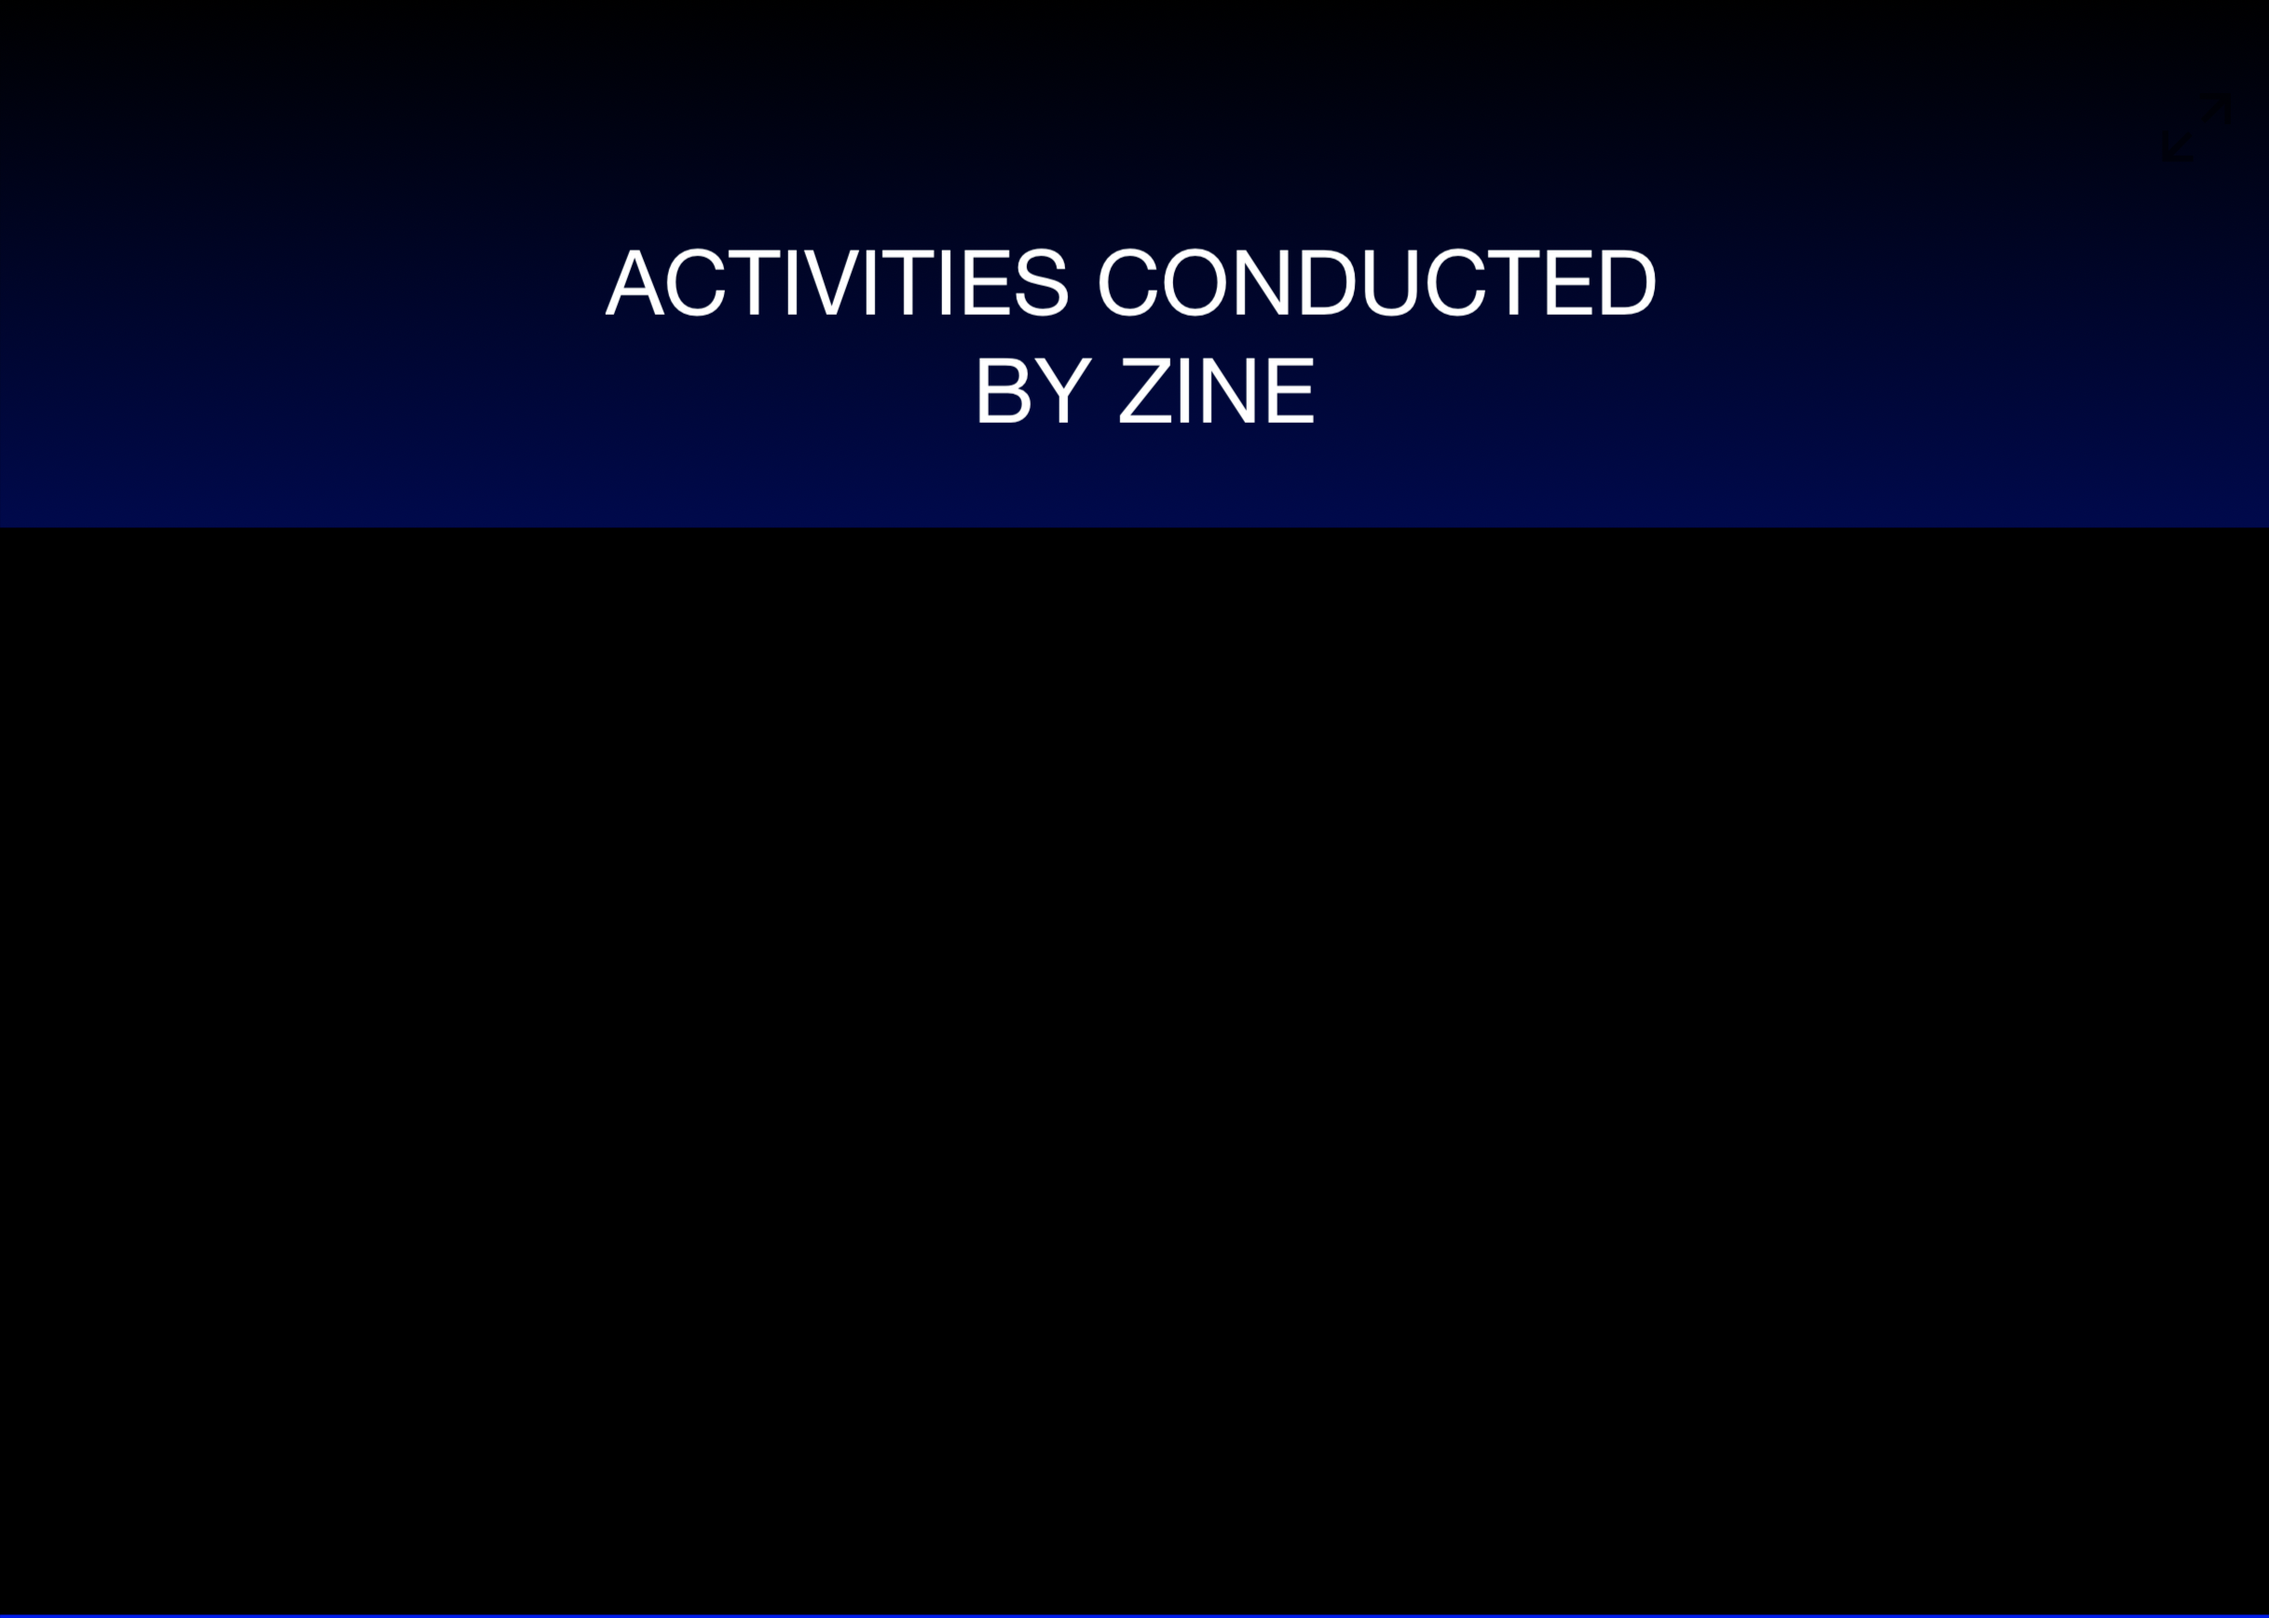
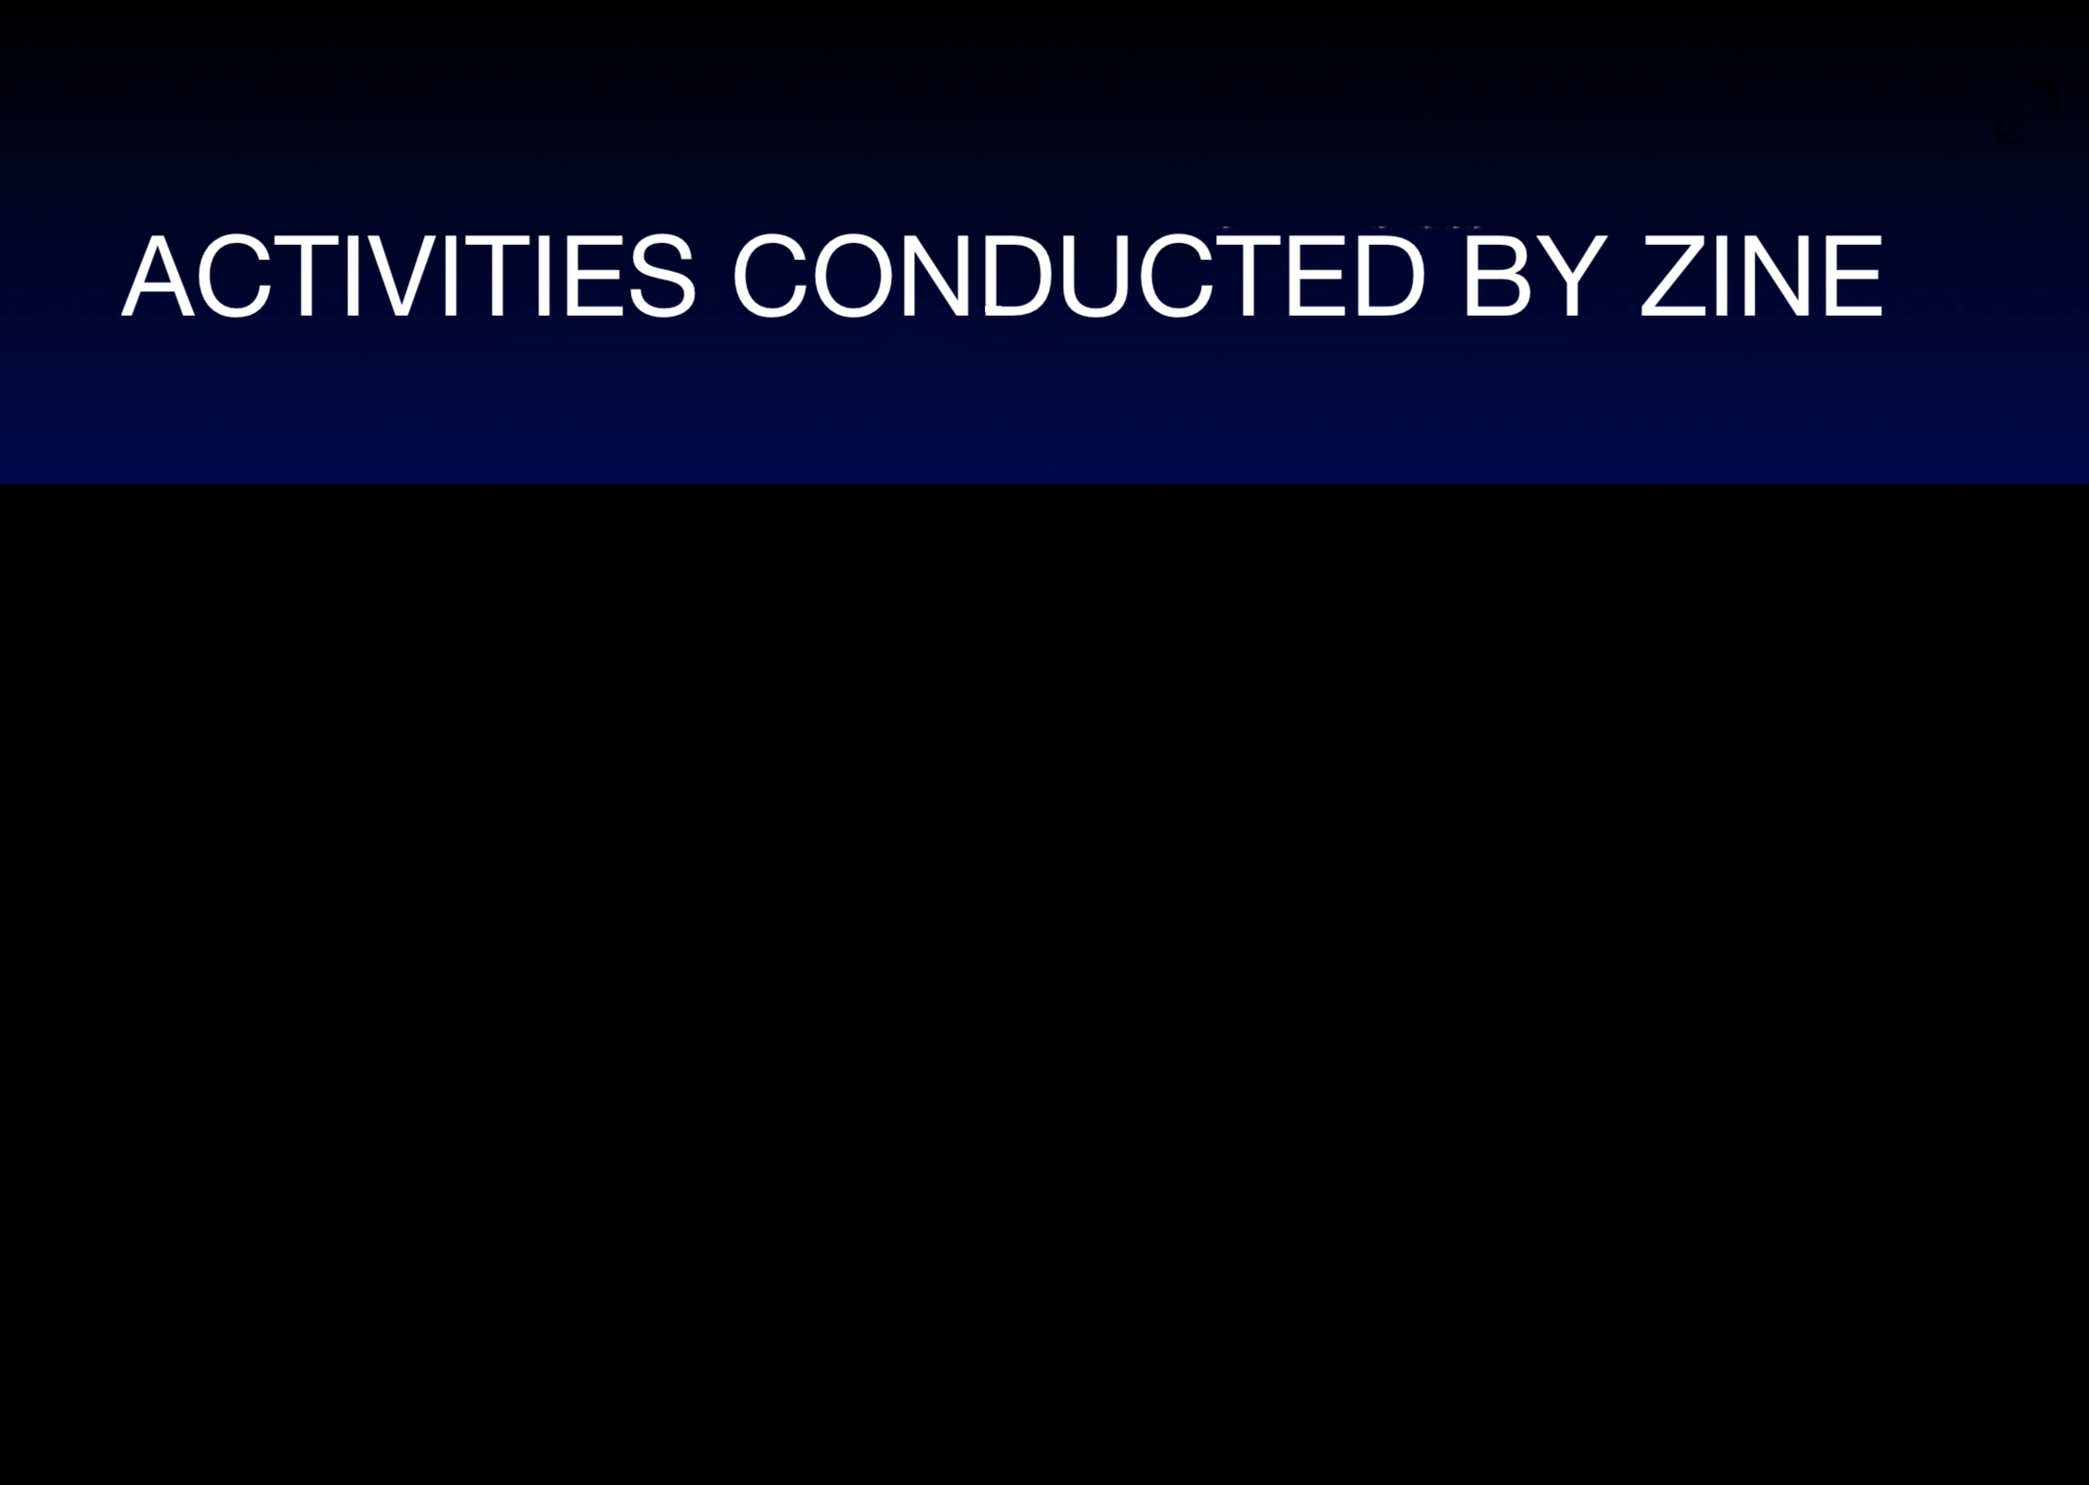
bug below robot animation

Changed region(s): [[0.0624, 0.1537, 0.9054, 0.2767], [0.0, 0.9837, 1.0, 1.0]]

diff --git a/components/Footer/Footer.tsx b/components/Footer/Footer.tsx
@@ -1,7 +1,6 @@
 import React from "react";
 import Image from "next/image";
 import Link from "next/link";
-import Script from "next/script";
 import logo from '../../images/zinelogo.png';
 import githublogo from '../../images/github.png';
 import linkedinlogo from '../../images/linkedin.png';
@@ -10,7 +9,6 @@ import instagramlogo from '../../images/instagramicon.jpeg';
 const Footer_Main = () => {
     return(
         <div className="sticky custom:bg-black z-30 custom:flex custom:flex-wrap gap-4 justify-center items-center pb-2 pt-10 mt-6">
-            <Script type="text/javascript" src="/script.js" />
             <div className="box-border border-2 border-top custom:p-10 rounded-lg">
                 <div className="w-20 h-20 sm:w-28 sm:h-28 mb-10 pt-5 transform-gpu mx-96"><Image src={logo}></Image></div>
                 <div className="bg-clip-text text-transparent bg-gradient-to-r from-green-400 via-pink-500 to-purple-500 text-3xl lg:text-3xl xl:text-4xl my-12 text-center">Connect With ZINE!</div>

diff --git a/components/Home/RobotAnimation.tsx b/components/Home/RobotAnimation.tsx
@@ -2,7 +2,7 @@ import React from "react";
 
 const RobotAnimation = () => {
     return(
-        <div className="robot mt-60 bg-cover bg-blue-bg"><svg version="1.1" xmlns="http://www.w3.org/2000/svg">
+        <div className="robot mt-60 bg-cover bg-smblue-bg lg:bg-blue-bg "><svg version="1.1" xmlns="http://www.w3.org/2000/svg">
 			
 	<g id="hover">
 		<ellipse id="shadow_2_" opacity="0.4" fill="#2C3332" cx="300" cy="703.375" rx="88.971" ry="30.625"></ellipse>

diff --git a/tailwind.config.js b/tailwind.config.js
@@ -65,7 +65,8 @@ module.exports = {
       backgroundImage: {
         'footer-bg': "url('../images/footer.jpg')",
         'body-bg': "url('../images/bg.png')",
-        'blue-bg': "url('../images/blue-bg.png')"
+        'blue-bg': "url('../images/blue-bg.png')",
+        'smblue-bg': "url('../images/smblue-bg.png')"
       },
       fontSize: {
         base: ['50px', '75px'],
